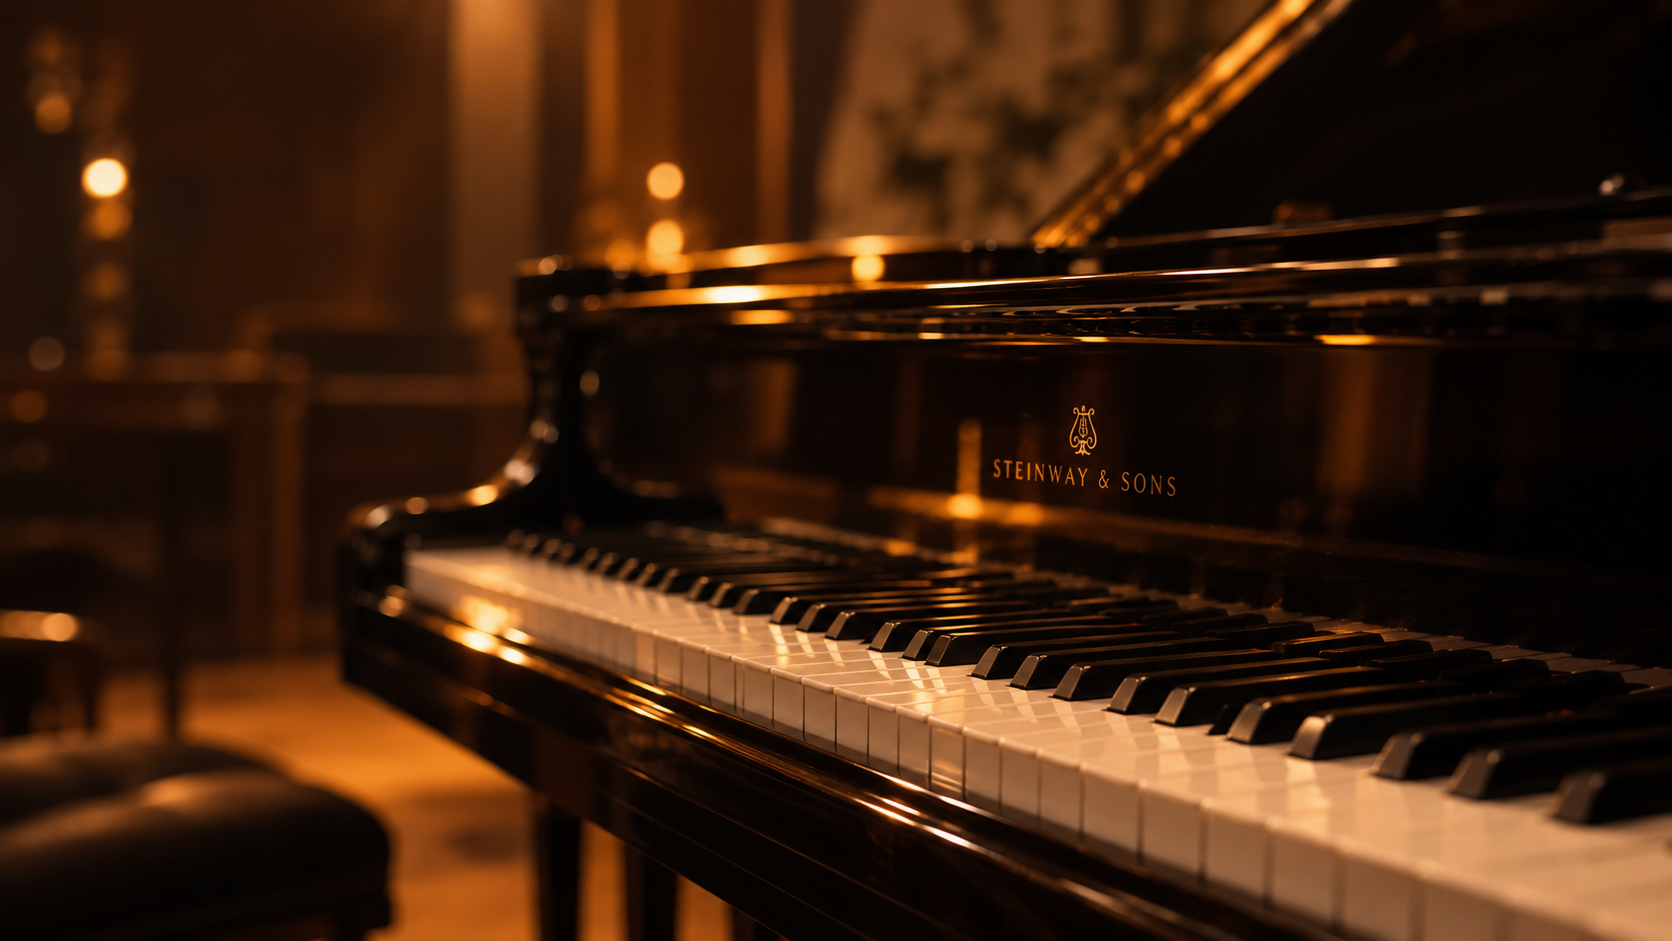
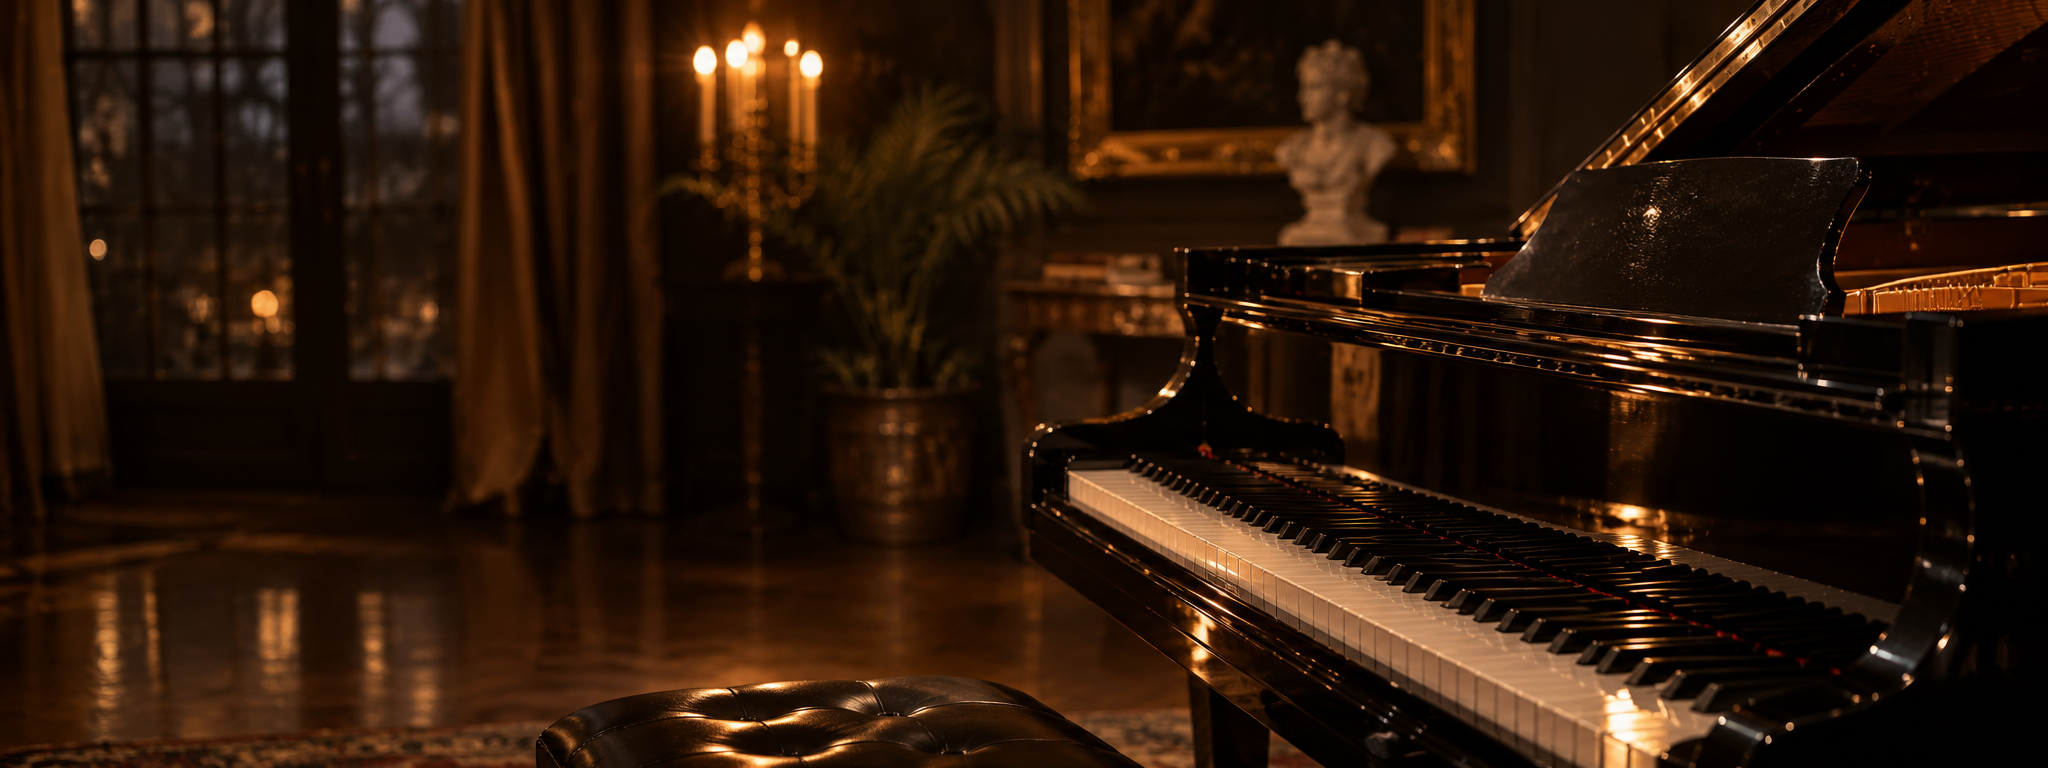
V 1.0.0 64

diff --git a/app/pages/index.vue b/app/pages/index.vue
@@ -107,7 +107,7 @@ onMounted(() => {
         <div class="absolute inset-0 bg-stone-950/65" aria-hidden="true" />
 
         <!-- خود عکس: یک طرف هیرو و لبهی سمت متن بهتدریج محو میشه (جهتش با زبان عوض میشه) -->
-        <div class="parallax-bg hero-photo absolute inset-y-0 inset-e-0 w-full opacity-60 lg:w-[68%] lg:opacity-100">
+        <div class="parallax-bg hero-photo absolute inset-y-0 inset-e-0 w-full opacity-60 lg:opacity-100">
           <img
             :src="HERO_IMAGE"
             alt=""
@@ -239,14 +239,10 @@ onMounted(() => {
   bottom: calc(var(--card-h, 10rem) / 2);
 }
 
-/* عکس هیرو: لبهی سمت متن محو میشه (LTR: چپ، RTL: راست) */
+/* عکس هیرو: لبهی سمت متن محو میشه (فقط LTR؛ توی RTL سایه حذف شده) */
 .hero-photo {
   -webkit-mask-image: linear-gradient(to right, transparent 0%, rgb(0 0 0 / 0.5) 22%, #000 58%);
   mask-image: linear-gradient(to right, transparent 0%, rgb(0 0 0 / 0.5) 22%, #000 58%);
-}
-:global(html[dir='rtl']) .hero-photo {
-  -webkit-mask-image: linear-gradient(to left, transparent 0%, rgb(0 0 0 / 0.5) 22%, #000 58%);
-  mask-image: linear-gradient(to left, transparent 0%, rgb(0 0 0 / 0.5) 22%, #000 58%);
 }
 
 /* تیتر هیرو: فونت سریف برای زبانهای لاتین (فارسی با فونت وزیرمتن میمونه) */
